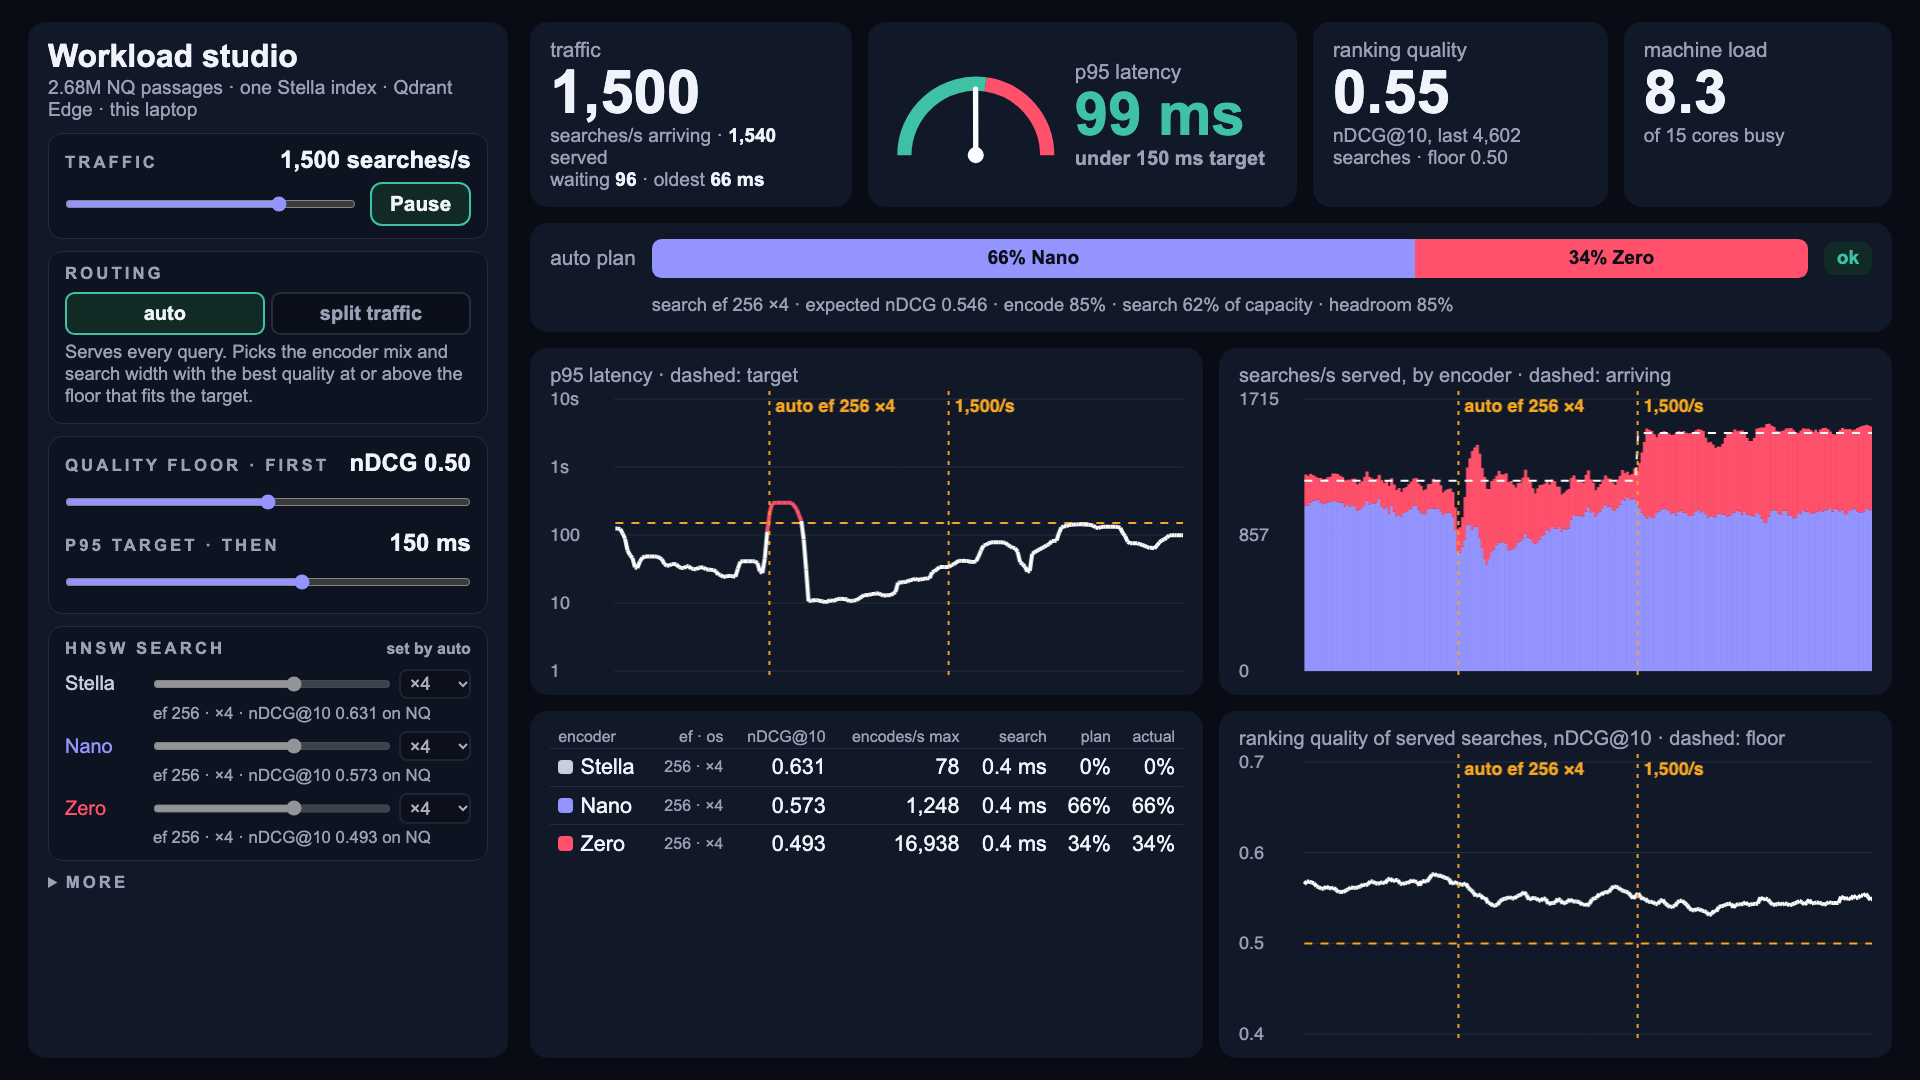
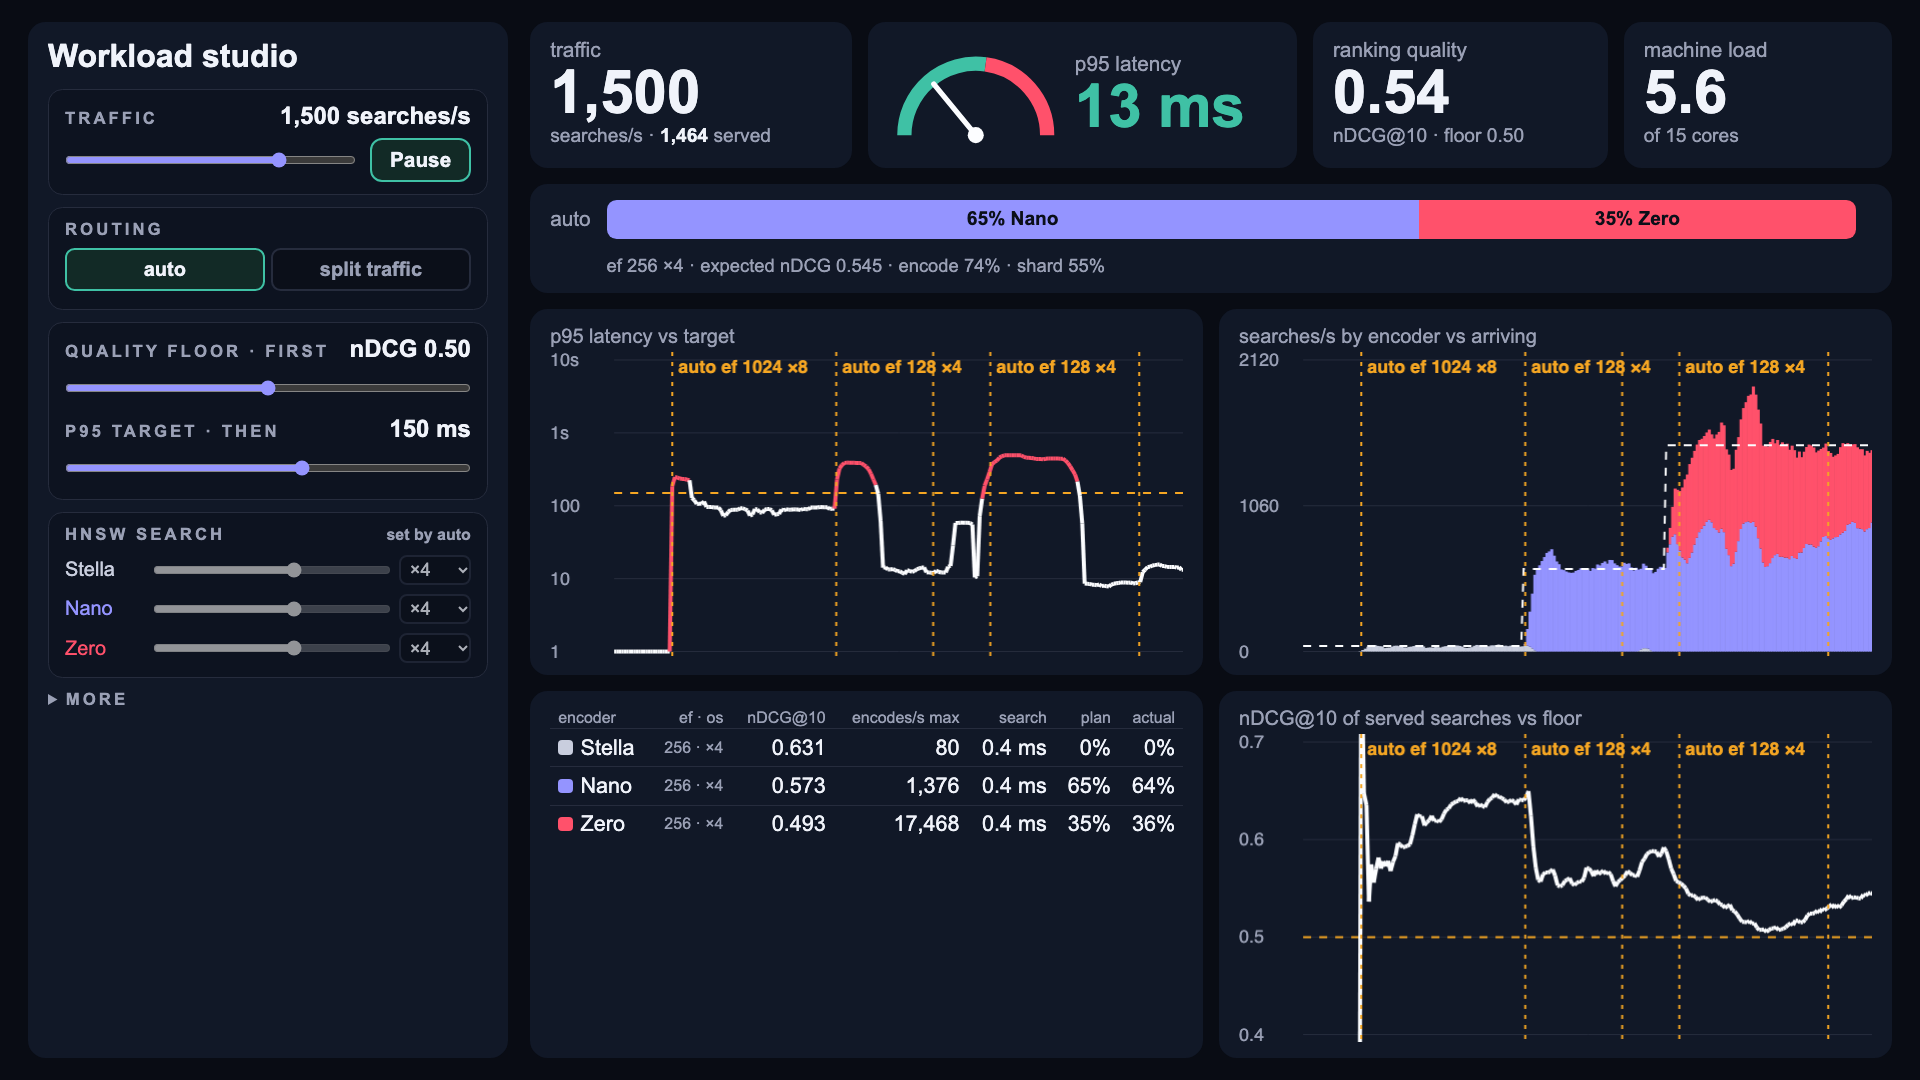
Remove redundant studio labels and refresh screenshot
Claude-Session: https://claude.ai/code/session_01DkzaPtvNR1h7uzxC57JR6n

diff --git a/m15/talk/demo/studio/index.html b/m15/talk/demo/studio/index.html
@@ -23,7 +23,6 @@ input[type=range]{width:100%;accent-color:#9494ff;height:1.9rem;margin:.1rem 0}i
 .mix{display:grid;grid-template-columns:6rem 1fr 3.75rem;align-items:center;gap:.6rem;font-size:1.3rem}.mix b{text-align:right}
 .enc{display:grid;grid-template-columns:5rem 1fr 4.5rem;align-items:center;gap:.5rem;font-size:1.25rem;margin:.35rem 0 0}
 .enc select{font:inherit;font-size:1.15rem;background:#0b0f19;color:var(--txt);border:2px solid var(--line);border-radius:.5rem;padding:.1rem .3rem}
-.enc .q{grid-column:2/-1;font-size:1.05rem;color:var(--mut);margin-top:-.3rem}
 .hint{font-size:1.15rem;color:var(--mut);margin:.25rem 0}
 details summary{font-size:1.05rem;letter-spacing:.19rem;color:var(--mut);cursor:pointer;font-weight:600}
 .tg{display:grid;grid-template-columns:auto 1fr;gap:.9rem;align-items:center;margin-top:.4rem}
@@ -67,13 +66,13 @@ th:first-child,td:first-child{text-align:left}td{text-align:right;padding:.35rem
       <div class="mix"><span><span class="dot" style="background:var(--stella)"></span>Stella</span><input id="w_stella" type="range" min="0" max="100"><b id="w_stella_v"></b></div>
       <div class="mix"><span><span class="dot" style="background:var(--nano)"></span>Nano</span><input id="w_nano" type="range" min="0" max="100"><b id="w_nano_v"></b></div>
       <div class="mix"><span><span class="dot" style="background:var(--zero)"></span>Zero</span><input id="w_zero" type="range" min="0" max="100"><b id="w_zero_v"></b></div></div>
-    <div class="hint" id="autohint">Serves every query. Picks the encoder mix and search width with the best quality at or above the floor that fits the target.</div></div>
+    </div>
   <div class="card"><h2>QUALITY FLOOR · FIRST <b id="floor_v"></b></h2><input id="floor" type="range" min="30" max="70">
     <h2 style="margin-top:.5rem">P95 TARGET · THEN <b id="target_v"></b></h2><input id="target" type="range" min="0" max="1000"></div>
   <div class="card"><h2>HNSW SEARCH <span class="sm" id="search_by" style="letter-spacing:0"></span></h2>
-    <div class="enc"><span style="color:var(--stella)">Stella</span><input id="ef_stella" type="range" min="0" max="5"><select id="os_stella"></select><div class="q" id="q_stella"></div></div>
-    <div class="enc"><span style="color:var(--nano)">Nano</span><input id="ef_nano" type="range" min="0" max="5"><select id="os_nano"></select><div class="q" id="q_nano"></div></div>
-    <div class="enc"><span style="color:var(--zero)">Zero</span><input id="ef_zero" type="range" min="0" max="5"><select id="os_zero"></select><div class="q" id="q_zero"></div></div></div>
+    <div class="enc"><span style="color:var(--stella)">Stella</span><input id="ef_stella" type="range" min="0" max="5"><select id="os_stella"></select></div>
+    <div class="enc"><span style="color:var(--nano)">Nano</span><input id="ef_nano" type="range" min="0" max="5"><select id="os_nano"></select></div>
+    <div class="enc"><span style="color:var(--zero)">Zero</span><input id="ef_zero" type="range" min="0" max="5"><select id="os_zero"></select></div></div>
   <details><summary>MORE</summary>
     <div class="seg" id="pattern"><button data-v="steady">steady</button><button data-v="wave">daily wave</button><button data-v="bursts">bursts</button></div>
     <div class="tg" id="spike_g"><button id="spike">Spike</button><div><label>size <b id="peak_v"></b></label><input id="peak" type="range" min="2" max="50"></div></div>
@@ -87,14 +86,14 @@ th:first-child,td:first-child{text-align:left}td{text-align:right;padding:.35rem
     <div class="panel t"><div class="k">ranking quality</div><div class="v" id="ndcg">–</div><div class="d" id="ndcg_d"></div></div>
     <div class="panel t"><div class="k">machine load</div><div class="v" id="load">–</div><div class="d" id="load_d"></div></div>
   </div>
-  <div class="panel plan"><span class="k" id="plan_k">auto plan</span><div class="bar" id="bar"></div><span class="chip" id="chip"></span><div class="util" id="util"></div></div>
+  <div class="panel plan"><span class="k" id="plan_k">auto</span><div class="bar" id="bar"></div><span class="chip" id="chip"></span><div class="util" id="util"></div></div>
   <div class="charts">
-    <div class="panel chart"><div class="k" id="latk">p95 latency · dashed: target</div><canvas id="c_lat"></canvas></div>
-    <div class="panel chart"><div class="k">searches/s served, by encoder · dashed: arriving</div><canvas id="c_qps"></canvas></div>
+    <div class="panel chart"><div class="k" id="latk">p95 latency vs target</div><canvas id="c_lat"></canvas></div>
+    <div class="panel chart"><div class="k">searches/s by encoder vs arriving</div><canvas id="c_qps"></canvas></div>
   </div>
   <div class="charts">
     <div class="panel"><table><thead><tr><th>encoder</th><th>ef · os</th><th>nDCG@10</th><th>encodes/s max</th><th>search</th><th>plan</th><th>actual</th></tr></thead><tbody id="enc_tbl"></tbody></table></div>
-    <div class="panel chart"><div class="k">ranking quality of served searches, nDCG@10 · dashed: floor</div><canvas id="c_ndcg"></canvas></div>
+    <div class="panel chart"><div class="k">nDCG@10 of served searches vs floor</div><canvas id="c_ndcg"></canvas></div>
   </div>
 </div></div>
 <script>
@@ -195,7 +194,7 @@ function draw() {
 
 // ---- numbers ------------------------------------------------------------------------------------------
 function render(s) {
-  $("sub").textContent = s.ready ? `${s.n_docs >= 1e6 ? (s.n_docs / 1e6).toFixed(2) + "M" : s.n_docs.toLocaleString()} ${s.dataset} passages · one Stella index · Qdrant Edge · this laptop` : `starting: ${s.step}…`;
+  $("sub").textContent = s.ready ? "" : `starting: ${s.step}…`;
   if (Date.now() - editing > 800) {       // don't fight the control being moved
     $("rate").value = xOfRate(s.rate); $("rate_v").textContent = Math.round(s.rate).toLocaleString() + " searches/s";
     $("floor").value = Math.round(s.floor * 100); $("floor_v").textContent = "nDCG " + s.floor.toFixed(2);
@@ -207,34 +206,34 @@ function render(s) {
   }
   document.querySelectorAll("#route button").forEach(b => b.classList.toggle("on", b.dataset.v === s.route));
   document.querySelectorAll("#pattern button").forEach(b => b.classList.toggle("on", b.dataset.v === s.pattern));
-  $("splits").style.display = s.route === "split" ? "block" : "none"; $("autohint").style.display = s.route === "auto" ? "block" : "none";
+  $("splits").style.display = s.route === "split" ? "block" : "none";
   $("pause").textContent = s.paused ? "Start" : "Pause"; $("pause").classList.toggle("paused", s.paused);
   $("spike").classList.toggle("on", s.spike); $("agent").classList.toggle("on", s.fanout > 1);
   for (const e of ENC) { const c = s.costs[e]; if (!c) continue;
-    $("q_" + e).textContent = `ef ${s.search[e][0]} · ×${s.search[e][1]} · nDCG@10 ${c.quality.toFixed(3)} on ${s.dataset}`;
     $("ef_" + e).disabled = $("os_" + e).disabled = s.route === "auto"; }
   $("search_by").textContent = s.route === "auto" ? "set by auto" : "ef · oversampling";
   // tiles
   $("arr").textContent = Math.round(s.offered).toLocaleString();   // requested; a full queue holds the replay back
-  $("flow1").innerHTML = `searches/s arriving · <b>${s.served_per_s.toLocaleString()}</b> served`;
+  $("flow1").innerHTML = `searches/s · <b>${s.served_per_s.toLocaleString()}</b> served`;
   const late = s.oldest_ms > s.target_ms;
-  $("flow2").innerHTML = `waiting <b class="${late ? "bad" : ""}">${s.waiting.toLocaleString()}</b> · oldest <b class="${late ? "bad" : ""}">${ms(s.oldest_ms)}</b>`;
+  $("flow2").innerHTML = s.waiting > 50 ? `<b class="${late ? "bad" : ""}">${s.waiting.toLocaleString()}</b> waiting · oldest <b class="${late ? "bad" : ""}">${ms(s.oldest_ms)}</b>` : "";
   const agent = s.fanout > 1, lat = agent ? s.task_p95_ms : s.p95_ms, over = lat > s.target_ms;
-  $("p95k").textContent = agent ? `p95 per agent task (${s.fanout} searches)` : "p95 latency";
-  $("latk").textContent = (agent ? "p95 per agent task" : "p95 latency") + " · dashed: target";
+  $("p95k").textContent = agent ? `p95 per task of ${s.fanout}` : "p95 latency";
+  $("latk").textContent = (agent ? "p95 per agent task" : "p95 latency") + " vs target";
   $("p95").textContent = ms(lat); $("p95").style.color = over ? "var(--bad)" : "var(--ok)";
-  $("verdict").textContent = s.paused && !s.served_per_s ? "paused" : over ? `OVER ${Math.round(s.target_ms)} ms TARGET` : `under ${Math.round(s.target_ms)} ms target`;
+  $("verdict").textContent = s.paused && !s.served_per_s ? "paused" : over ? "over target" : "";
   $("verdict").style.color = over ? "var(--bad)" : "var(--mut)"; $("gt").classList.toggle("over", over); gauge(lat, s.target_ms);
   $("ndcg").textContent = s.ndcg10.toFixed(2); $("ndcg").style.color = s.ndcg10 < s.floor && s.n_quality > 100 ? "var(--bad)" : "var(--txt)";
-  $("ndcg_d").textContent = `nDCG@10, last ${s.n_quality.toLocaleString()} searches · floor ${s.floor.toFixed(2)}`;
-  $("load").textContent = s.cores.toFixed(1); $("load_d").textContent = `of ${s.cores_total} cores busy`;
+  $("ndcg_d").textContent = `nDCG@10 · floor ${s.floor.toFixed(2)}`;
+  $("load").textContent = s.cores.toFixed(1); $("load_d").textContent = `of ${s.cores_total} cores`;
   // plan
   const p = s.plan, shares = p ? p.shares : Object.fromEntries(ENC.map(e => [e, s.split[e] / (ENC.reduce((a, o) => a + s.split[o], 0) || 1)]));
-  $("plan_k").textContent = s.route === "auto" ? "auto plan" : "split";
+  $("plan_k").textContent = s.route === "auto" ? "auto" : "split";
   $("bar").innerHTML = ENC.filter(e => shares[e] > 0.004).map(e => `<div style="width:${100 * shares[e]}%;background:${COL[e]}">${shares[e] > 0.08 ? `${Math.round(100 * shares[e])}% ${NAME[e]}` : ""}</div>`).join("");
   const status = p ? p.status : "manual", sc = {ok: ["#122a26", "#3fc1a5"], overloaded: ["#2a1520", "#ff516b"], "floor unreachable": ["#2a1f0a", "#f5a623"], "over target to keep floor": ["#2a1f0a", "#f5a623"], "over capacity at this floor": ["#2a1520", "#ff516b"], manual: ["#1d1d3d", "#9494ff"]}[status];
-  $("chip").textContent = {"over target to keep floor": "floor first · latency may exceed target", "over capacity at this floor": "over capacity at this floor · queue growing"}[status] || status; $("chip").style.background = sc[0]; $("chip").style.color = sc[1];
-  $("util").textContent = p ? `search ef ${p.preset[0]} ×${p.preset[1]} · expected nDCG ${p.quality.toFixed(3)} · encode ${Math.round(100 * p.encode_util)}% · search ${Math.round(100 * p.shard_util)}% of capacity · headroom ${Math.round(100 * s.headroom)}%` : "";
+  $("chip").textContent = {"over target to keep floor": "floor first · latency may exceed target", "over capacity at this floor": "over capacity · queue growing", manual: ""}[status] ?? (status === "ok" ? "" : status);
+  $("chip").style.display = $("chip").textContent ? "" : "none"; $("chip").style.background = sc[0]; $("chip").style.color = sc[1];
+  $("util").textContent = p ? `ef ${p.preset[0]} ×${p.preset[1]} · expected nDCG ${p.quality.toFixed(3)} · encode ${Math.round(100 * p.encode_util)}% · shard ${Math.round(100 * p.shard_util)}%` : "";
   // encoders
   $("enc_tbl").innerHTML = ENC.map(e => { const c = s.costs[e] || {}; return `<tr><td><span class="dot" style="background:${COL[e]}"></span>${NAME[e]}</td>
     <td class="sm">${s.search[e][0]} · ×${s.search[e][1]}</td><td>${c.quality ? c.quality.toFixed(3) : "–"}</td>

diff --git a/m15/talk/demo/studio/README.md b/m15/talk/demo/studio/README.md
@@ -2,7 +2,7 @@
 
 With a large encoder, encoding the query is most of the cost of a dense search: Stella takes about 28 ms per query on a laptop CPU, the search under 1 ms. Constella keeps one Stella document index and lets each query pick its encoder: Stella (best ranking, about 80 queries/s on a laptop), Nano (a 35M-parameter transformer, about 1,300/s) or Zero (a lookup table, about 17,000/s). The workload studio shows what that buys under real traffic. It replays a BEIR dataset's judged questions against one [Qdrant Edge](https://qdrant.tech/documentation/edge/) shard on your machine, scores every answer, and lets an auto-router choose the encoder mix and the HNSW search width live.
 
-![Workload studio at 1,500 searches/s on NQ: Auto serves 66% Nano and 34% Zero at HNSW ef 256, p95 99 ms under a 150 ms target, nDCG@10 0.55](screenshot.png)
+![Workload studio at 1,500 searches/s on NQ: Auto serves 65% Nano and 35% Zero at HNSW ef 256, p95 13 ms under a 150 ms target, nDCG@10 0.54](screenshot.png)
 
 ## Run it
 

diff --git a/README.md b/README.md
@@ -17,7 +17,7 @@ Read the [Constella whitepaper (PDF)](m15/latex/paper.pdf).
 
 ## Live demo: workload studio
 
-![Workload studio at 1,500 searches/s on NQ: Auto serves 66% Nano and 34% Zero at HNSW ef 256, p95 99 ms under a 150 ms target, nDCG@10 0.55](m15/talk/demo/studio/screenshot.png)
+![Workload studio at 1,500 searches/s on NQ: Auto serves 65% Nano and 35% Zero at HNSW ef 256, p95 13 ms under a 150 ms target, nDCG@10 0.54](m15/talk/demo/studio/screenshot.png)
 
 One Qdrant Edge index, three query encoders, live traffic. The studio replays judged BEIR questions on your
 machine and an auto-router picks the encoder mix and the HNSW search width for every query: Stella when
